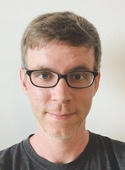
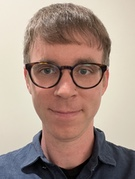
Update bio & mug photo

diff --git a/build/index.html b/build/index.html
@@ -35,8 +35,8 @@ You are using an outdated browser. <a href="http://browsehappy.com/">Upgrade you
 I'm a software developer <a href="http://rubidiom.com">building modern web applications</a>.
 </h1>
 <p>
-When I'm not writing software, I enjoy <a href="http://ben.flights/">traveling & travel hacking</a>,
-playing tennis, noodling around with jazz piano, economics, and clear thinking.
+When I'm not writing software, I enjoy <a href="http://ben.flights/">traveling</a>,
+playing tennis, and noodling around with jazz piano.
 </p>
 <ul id='social'>
 <li>
@@ -190,7 +190,7 @@ traveling 54,000 miles around the world for two months.
 
 </div>
 <footer>
-<p>&copy; 2011-2021 Ben Hughes</p>
+<p>&copy; 2011-2022 Ben Hughes</p>
 </footer>
 </div>
 <script src="//ajax.googleapis.com/ajax/libs/jquery/1.8.2/jquery.min.js"></script>
